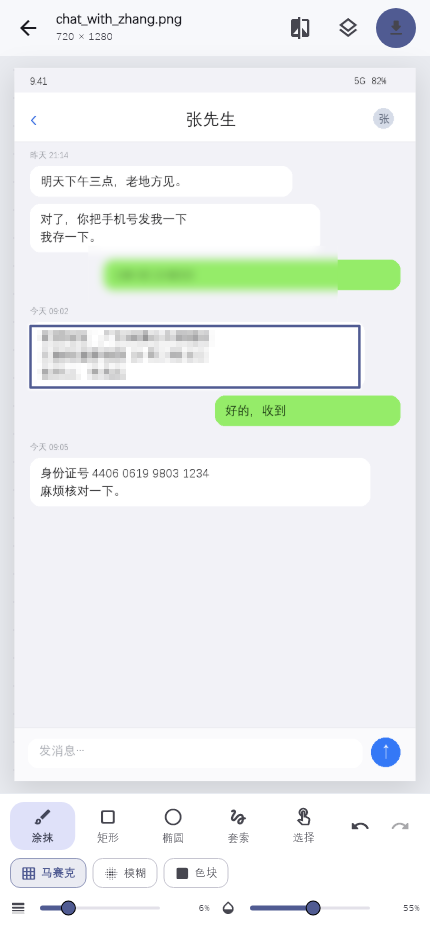
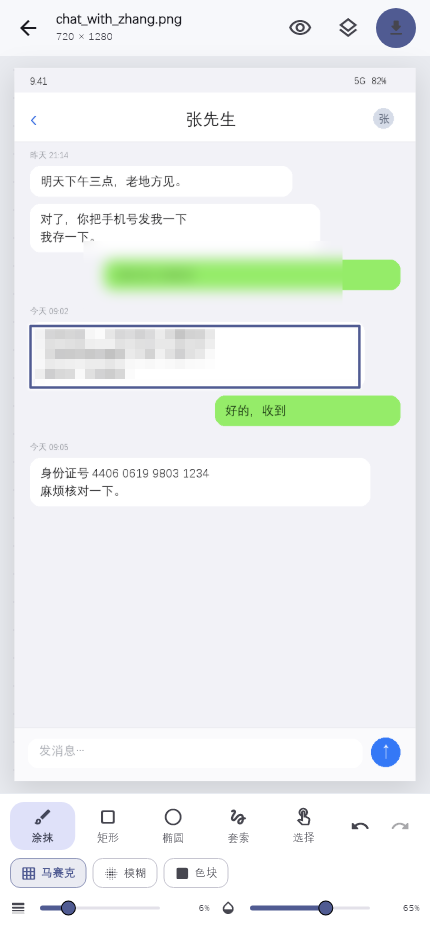
fix: three release-only failures found by running on a device
- Export always failed with "Illegal argument in isolate message": the closure
  handed to Isolate.run captured the whole scope, including MosaicTextureCache
  and its dart:ui images. Encoding now happens in a method whose scope holds
  nothing but the pixel buffer.
- Saving to the gallery produced "velatus_....jpg.jpg" because gal appends the
  extension itself; it now receives the bare name.
- The brush selection outline was as wide as the brush, so it painted over the
  very mosaic it was supposed to highlight. Strokes get a thin centreline.

Also strengthen the redaction defaults: the old mosaic curve left phone numbers
readable. Blocks are now ~29 px on a 1080 px screenshot at the default 65%
strength, and blur sigma scales up to match.

Adds end-to-end export tests (real JPEG/PNG bytes, baked pixels) and pixel-level
renderer tests; 22 tests total.

diff --git a/test/image_exporter_test.dart b/test/image_exporter_test.dart
@@ -1,0 +1,121 @@
+import 'dart:typed_data';
+
+import 'package:flutter/painting.dart';
+import 'package:flutter_test/flutter_test.dart';
+import 'package:image/image.dart' as img;
+import 'package:velatus/domain/mask_region.dart';
+import 'package:velatus/services/image_exporter.dart';
+import 'package:velatus/services/image_loader.dart';
+
+/// A 240×320 PNG with a white background and a red block, as raw bytes.
+Uint8List _sourcePng() {
+  final frame = img.Image(width: 240, height: 320);
+  img.fill(frame, color: img.ColorRgb8(255, 255, 255));
+  img.fillRect(
+    frame,
+    x1: 20,
+    y1: 40,
+    x2: 220,
+    y2: 90,
+    color: img.ColorRgb8(220, 40, 40),
+  );
+  return Uint8List.fromList(img.encodePng(frame));
+}
+
+void main() {
+  testWidgets('export bakes the masks and returns a real JPEG', (tester) async {
+    late ExportResult result;
+    await tester.runAsync(() async {
+      final source = await ImageLoader.fromBytes(
+        _sourcePng(),
+        name: 'test.png',
+      );
+      result = await ImageExporter.render(
+        source: source,
+        regions: const [
+          MaskRegion(
+            id: 'a',
+            style: MaskStyle.solid,
+            shape: MaskShape.rect,
+            points: [Offset(0.1, 0.1), Offset(0.9, 0.2)],
+            color: Color(0xFF12141A),
+          ),
+          MaskRegion(
+            id: 'b',
+            style: MaskStyle.mosaic,
+            shape: MaskShape.rect,
+            points: [Offset(0.1, 0.3), Offset(0.9, 0.45)],
+            strength: 0.8,
+          ),
+        ],
+      );
+    });
+
+    // Full-resolution output, not the preview.
+    expect(result.width, 240);
+    expect(result.height, 320);
+    // A JPEG starts with SOI, and the encoder never returns a tiny stub.
+    expect(result.bytes[0], 0xFF);
+    expect(result.bytes[1], 0xD8);
+    expect(result.bytes.length, greaterThan(1000));
+
+    // The bytes have to decode back to an image of the same size.
+    final decoded = img.decodeImage(result.bytes);
+    expect(decoded, isNotNull);
+    expect(decoded!.width, 240);
+    expect(decoded.height, 320);
+  });
+
+  testWidgets('export writes PNG when asked', (tester) async {
+    late ExportResult result;
+    await tester.runAsync(() async {
+      final source = await ImageLoader.fromBytes(_sourcePng(), name: 't.png');
+      result = await ImageExporter.render(
+        source: source,
+        regions: const [
+          MaskRegion(
+            id: 'a',
+            style: MaskStyle.blur,
+            shape: MaskShape.rect,
+            points: [Offset(0.2, 0.2), Offset(0.8, 0.4)],
+          ),
+        ],
+        format: ExportFormat.png,
+      );
+    });
+
+    expect(result.bytes.sublist(1, 4), [0x50, 0x4E, 0x47]); // PNG
+    expect(img.decodeImage(result.bytes)!.width, 240);
+  });
+
+  testWidgets('exported pixels contain the redaction', (tester) async {
+    late ExportResult result;
+    await tester.runAsync(() async {
+      final source = await ImageLoader.fromBytes(_sourcePng(), name: 't.png');
+      result = await ImageExporter.render(
+        source: source,
+        regions: const [
+          MaskRegion(
+            id: 'a',
+            style: MaskStyle.solid,
+            shape: MaskShape.rect,
+            points: [Offset(0.0, 0.0), Offset(1.0, 0.25)],
+            color: Color(0xFF12141A),
+          ),
+        ],
+        format: ExportFormat.png,
+      );
+    });
+
+    final decoded = img.decodeImage(result.bytes)!;
+    // Top band: the solid colour. Middle: untouched white.
+    final top = decoded.getPixel(120, 20);
+    final middle = decoded.getPixel(120, 200);
+    expect(top.r, closeTo(0x12, 6));
+    expect(top.g, closeTo(0x14, 6));
+    expect(top.b, closeTo(0x1A, 6));
+    expect(middle.r, 255);
+    expect(middle.g, 255);
+    expect(middle.b, 255);
+  });
+}

diff --git a/lib/services/mask_renderer.dart b/lib/services/mask_renderer.dart
@@ -14,15 +14,20 @@ class MaskRenderer {
   const MaskRenderer._();
 
   /// Block edge in pixels for a given strength, relative to the shorter side of
-  /// the image. Strength 0.55 on a 2000 px photo ≈ 26 px blocks.
+  /// the image.
+  ///
+  /// The curve is deliberately aggressive: a redaction has to dissolve glyphs,
+  /// not merely roughen them. At the default 0.65 strength a 1080 px screenshot
+  /// gets ~29 px blocks, which is wider than a line of body text and therefore
+  /// unreadable; the old, gentler curve left phone numbers legible.
   static int mosaicBlockPx(double strength, double shortSide) {
-    final relative = 0.003 + 0.018 * strength.clamp(0.0, 1.0);
+    final relative = 0.007 + 0.030 * strength.clamp(0.0, 1.0);
     return math.max(3, (shortSide * relative).round());
   }
 
   /// Gaussian sigma in pixels for a given strength.
   static double blurSigmaPx(double strength, double shortSide) {
-    final relative = 0.0015 + 0.012 * strength.clamp(0.0, 1.0);
+    final relative = 0.003 + 0.018 * strength.clamp(0.0, 1.0);
     return math.max(1.0, shortSide * relative);
   }
 
@@ -171,15 +176,17 @@ class MaskRenderer {
     final path = region.toPath(imageRect);
     if (path.getBounds().isEmpty && !region.isStroke) return;
 
-    final baseWidth =
-        region.isStroke ? region.size * imageRect.shortestSide : 0.0;
+    // A brush stroke is already as wide as the mask itself. Outlining it at
+    // that width would paint over the mosaic the user is trying to inspect, so
+    // strokes get a thin centreline instead of a fat ring.
+    final baseWidth = region.isStroke ? 1.5 : 2.5;
 
     // Halo, so the outline survives on both light and dark photos.
     canvas.drawPath(
       path,
       ui.Paint()
         ..style = PaintingStyle.stroke
-        ..strokeWidth = baseWidth + 5
+        ..strokeWidth = baseWidth + 2.5
         ..strokeCap = StrokeCap.round
         ..strokeJoin = StrokeJoin.round
         ..color = const Color(0xE6FFFFFF)
@@ -189,7 +196,7 @@ class MaskRenderer {
       path,
       ui.Paint()
         ..style = PaintingStyle.stroke
-        ..strokeWidth = baseWidth + 2.5
+        ..strokeWidth = baseWidth
         ..strokeCap = StrokeCap.round
         ..strokeJoin = StrokeJoin.round
         ..color = accent,

diff --git a/lib/services/image_exporter.dart b/lib/services/image_exporter.dart
@@ -93,9 +93,7 @@ class ImageExporter {
         raw.offsetInBytes,
         raw.lengthInBytes,
       );
-      final encoded = await Isolate.run(
-        () => _encode(rgba, width, height, format, quality),
-      );
+      final encoded = await _encodeOffThread(rgba, width, height, format, quality);
       return ExportResult(
         bytes: encoded,
         width: width,
@@ -106,6 +104,24 @@ class ImageExporter {
       cache.dispose();
       full.dispose();
     }
+  }
+
+  /// Encodes on a worker isolate.
+  ///
+  /// This lives in its own method on purpose: `Isolate.run` sends the closure
+  /// *and everything it captured* to the new isolate, and `dart:ui` objects are
+  /// not sendable. Building the closure in a scope that holds the decoded image
+  /// or the texture cache makes every export fail with "Illegal argument in
+  /// isolate message". Here the captured context is just the pixel buffer and a
+  /// few numbers.
+  static Future<Uint8List> _encodeOffThread(
+    Uint8List rgba,
+    int width,
+    int height,
+    ExportFormat format,
+    int quality,
+  ) {
+    return Isolate.run(() => _encode(rgba, width, height, format, quality));
   }
 
   static Uint8List _encode(
@@ -130,11 +146,17 @@ class ImageExporter {
     );
   }
 
-  static String suggestedName(ExportFormat format, {DateTime? now}) {
+  /// File name without the extension. `gal` appends the extension itself and
+  /// produces `photo.jpg.jpg` if it is already there.
+  static String suggestedBaseName({DateTime? now}) {
     final t = now ?? DateTime.now();
     String two(int v) => v.toString().padLeft(2, '0');
     return 'velatus_${t.year}${two(t.month)}${two(t.day)}_'
-        '${two(t.hour)}${two(t.minute)}${two(t.second)}.${format.extension}';
+        '${two(t.hour)}${two(t.minute)}${two(t.second)}';
+  }
+
+  static String suggestedName(ExportFormat format, {DateTime? now}) {
+    return '${suggestedBaseName(now: now)}.${format.extension}';
   }
 
   static String humanSize(int bytes) {

diff --git a/lib/core/theme.dart b/lib/core/theme.dart
@@ -1,3 +1,4 @@
+import 'package:flutter/services.dart';
 import 'package:material_ui/material_ui.dart';
 
 /// Brand seed. A muted indigo, chosen to feel calm rather than alarming.
@@ -38,6 +39,16 @@ ThemeData buildTheme(Brightness brightness) {
       surfaceTintColor: Colors.transparent,
       elevation: 0,
       centerTitle: false,
+      // The bar is transparent, so Flutter cannot work out the status bar icon
+      // colour on its own: without this the clock and battery stay white on a
+      // light background and disappear.
+      systemOverlayStyle: (isDark
+              ? SystemUiOverlayStyle.light
+              : SystemUiOverlayStyle.dark)
+          .copyWith(
+        statusBarColor: Colors.transparent,
+        systemNavigationBarColor: Colors.transparent,
+      ),
       titleTextStyle: base.textTheme.titleMedium?.copyWith(
         fontWeight: FontWeight.w600,
         color: scheme.onSurface,

diff --git a/lib/services/export_saver.dart b/lib/services/export_saver.dart
@@ -34,7 +34,12 @@ class ExportSaver {
             error: 'Gallery permission denied',
           );
         }
-        await Gal.putImageBytes(result.bytes, name: name);
+        // `gal` derives the extension from the bytes and appends it to the
+        // display name, so it must be given the bare name.
+        await Gal.putImageBytes(
+          result.bytes,
+          name: ImageExporter.suggestedBaseName(),
+        );
         return const ExportSaveResult(ok: true, location: 'Gallery');
       }
       if (Platform.isAndroid) {

diff --git a/lib/features/editor/editor_controller.dart b/lib/features/editor/editor_controller.dart
@@ -33,7 +33,7 @@ class EditorController extends ChangeNotifier {
   EditorTool _tool = EditorTool.brush;
   MaskStyle _style = MaskStyle.mosaic;
   double _brushSize = 0.055;
-  double _strength = 0.55;
+  double _strength = 0.65;
   Color _solidColor = const Color(0xFF14161C);
   bool _showOriginal = false;
   bool _busy = false;

diff --git a/lib/features/editor/editor_page.dart b/lib/features/editor/editor_page.dart
@@ -366,7 +366,7 @@ class _CompareButton extends StatelessWidget {
         icon: Icon(
           controller.showOriginal
               ? Icons.visibility_rounded
-              : Icons.compare_outlined,
+              : Icons.visibility_outlined,
         ),
         tooltip: l10n.compare,
       ),

diff --git a/lib/domain/mask_region.dart b/lib/domain/mask_region.dart
@@ -21,7 +21,7 @@ class MaskRegion {
     required this.shape,
     required this.points,
     this.size = 0.05,
-    this.strength = 0.55,
+    this.strength = 0.65,
     this.color = const Color(0xFF12141A),
     this.visible = true,
   });
